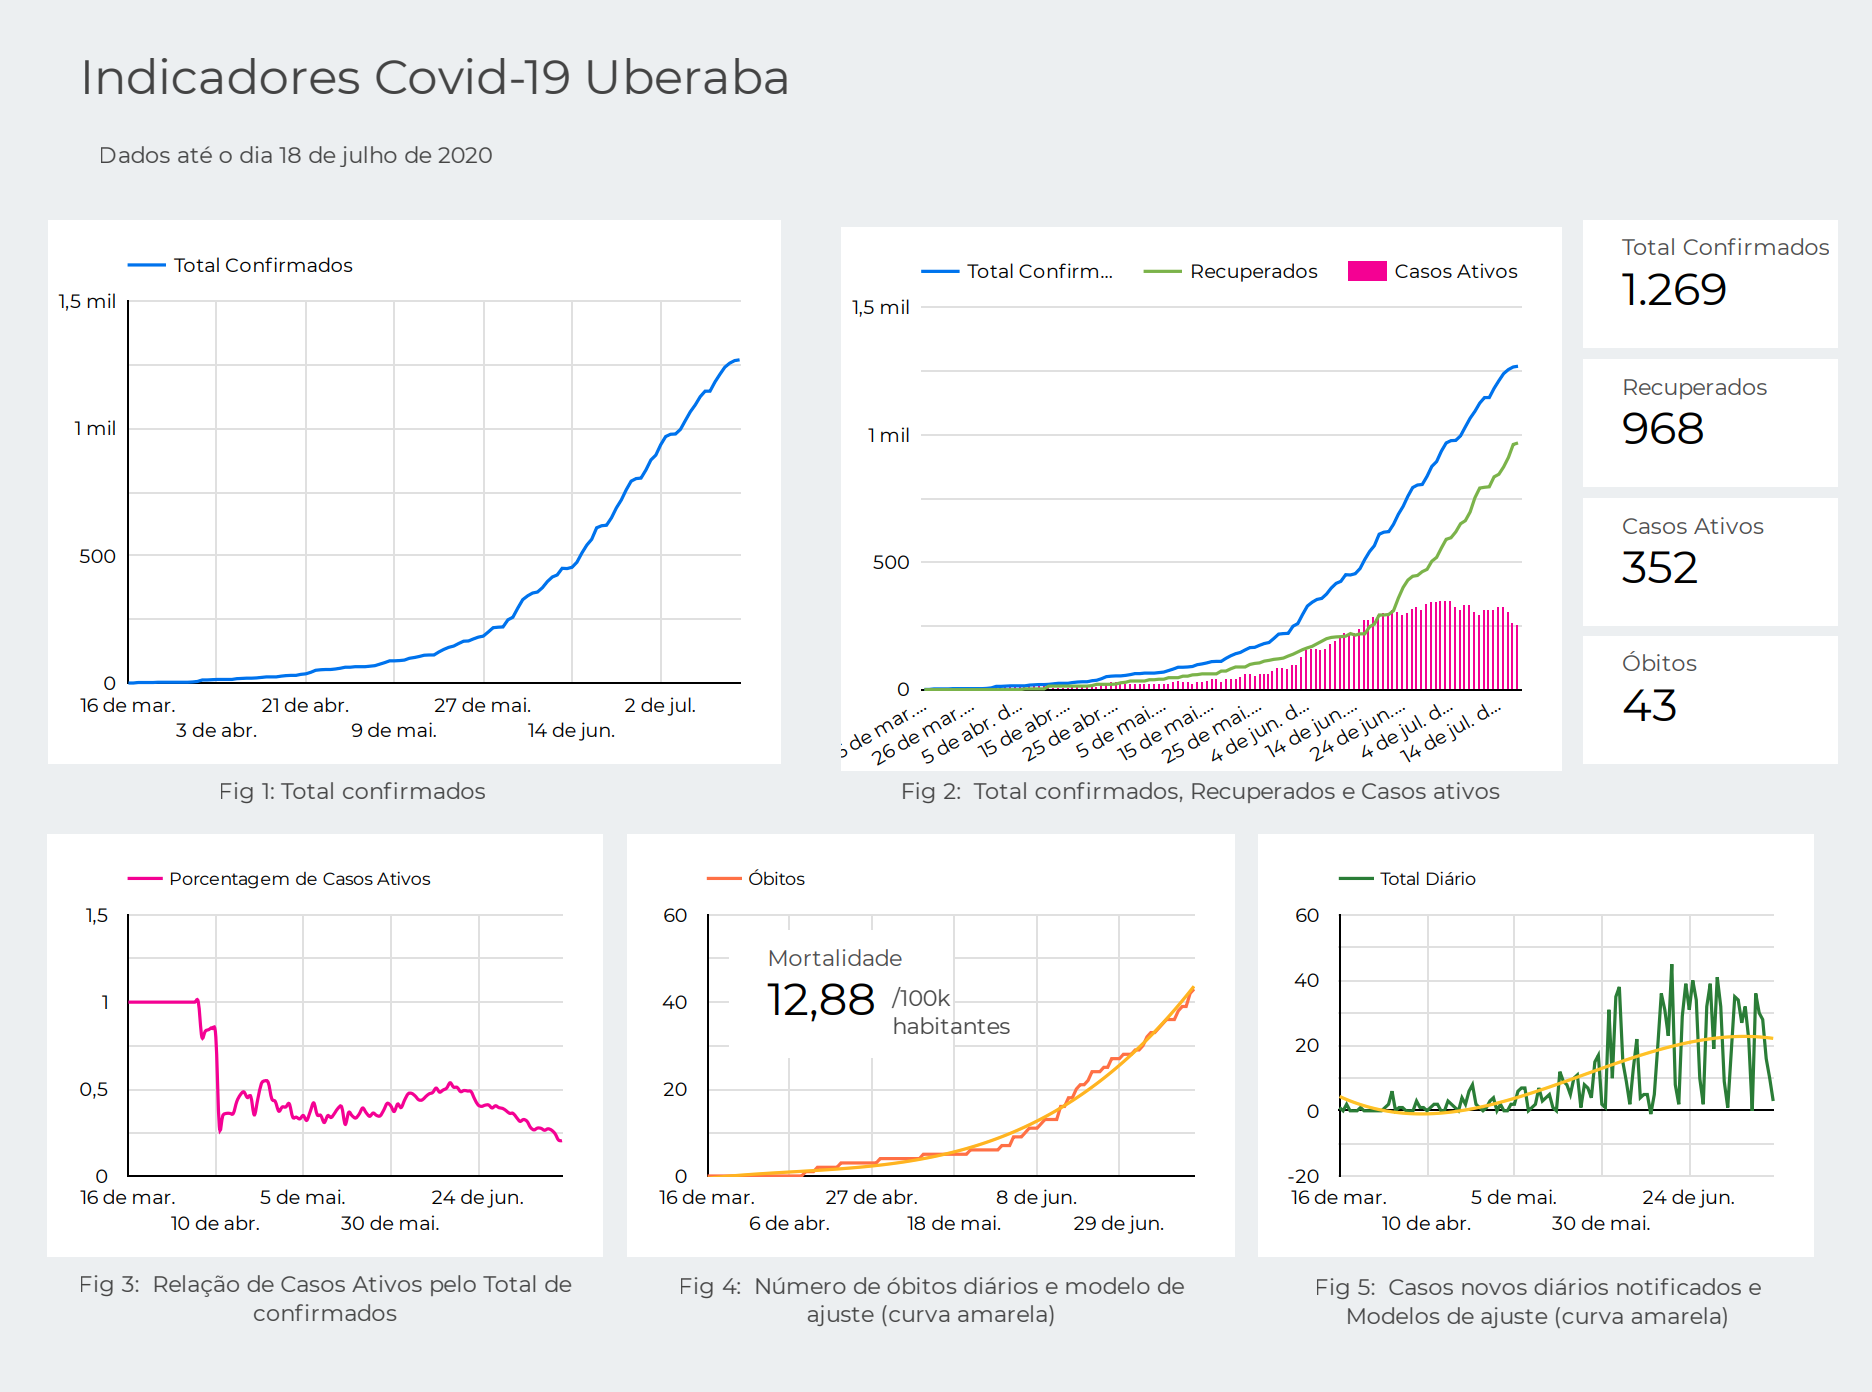
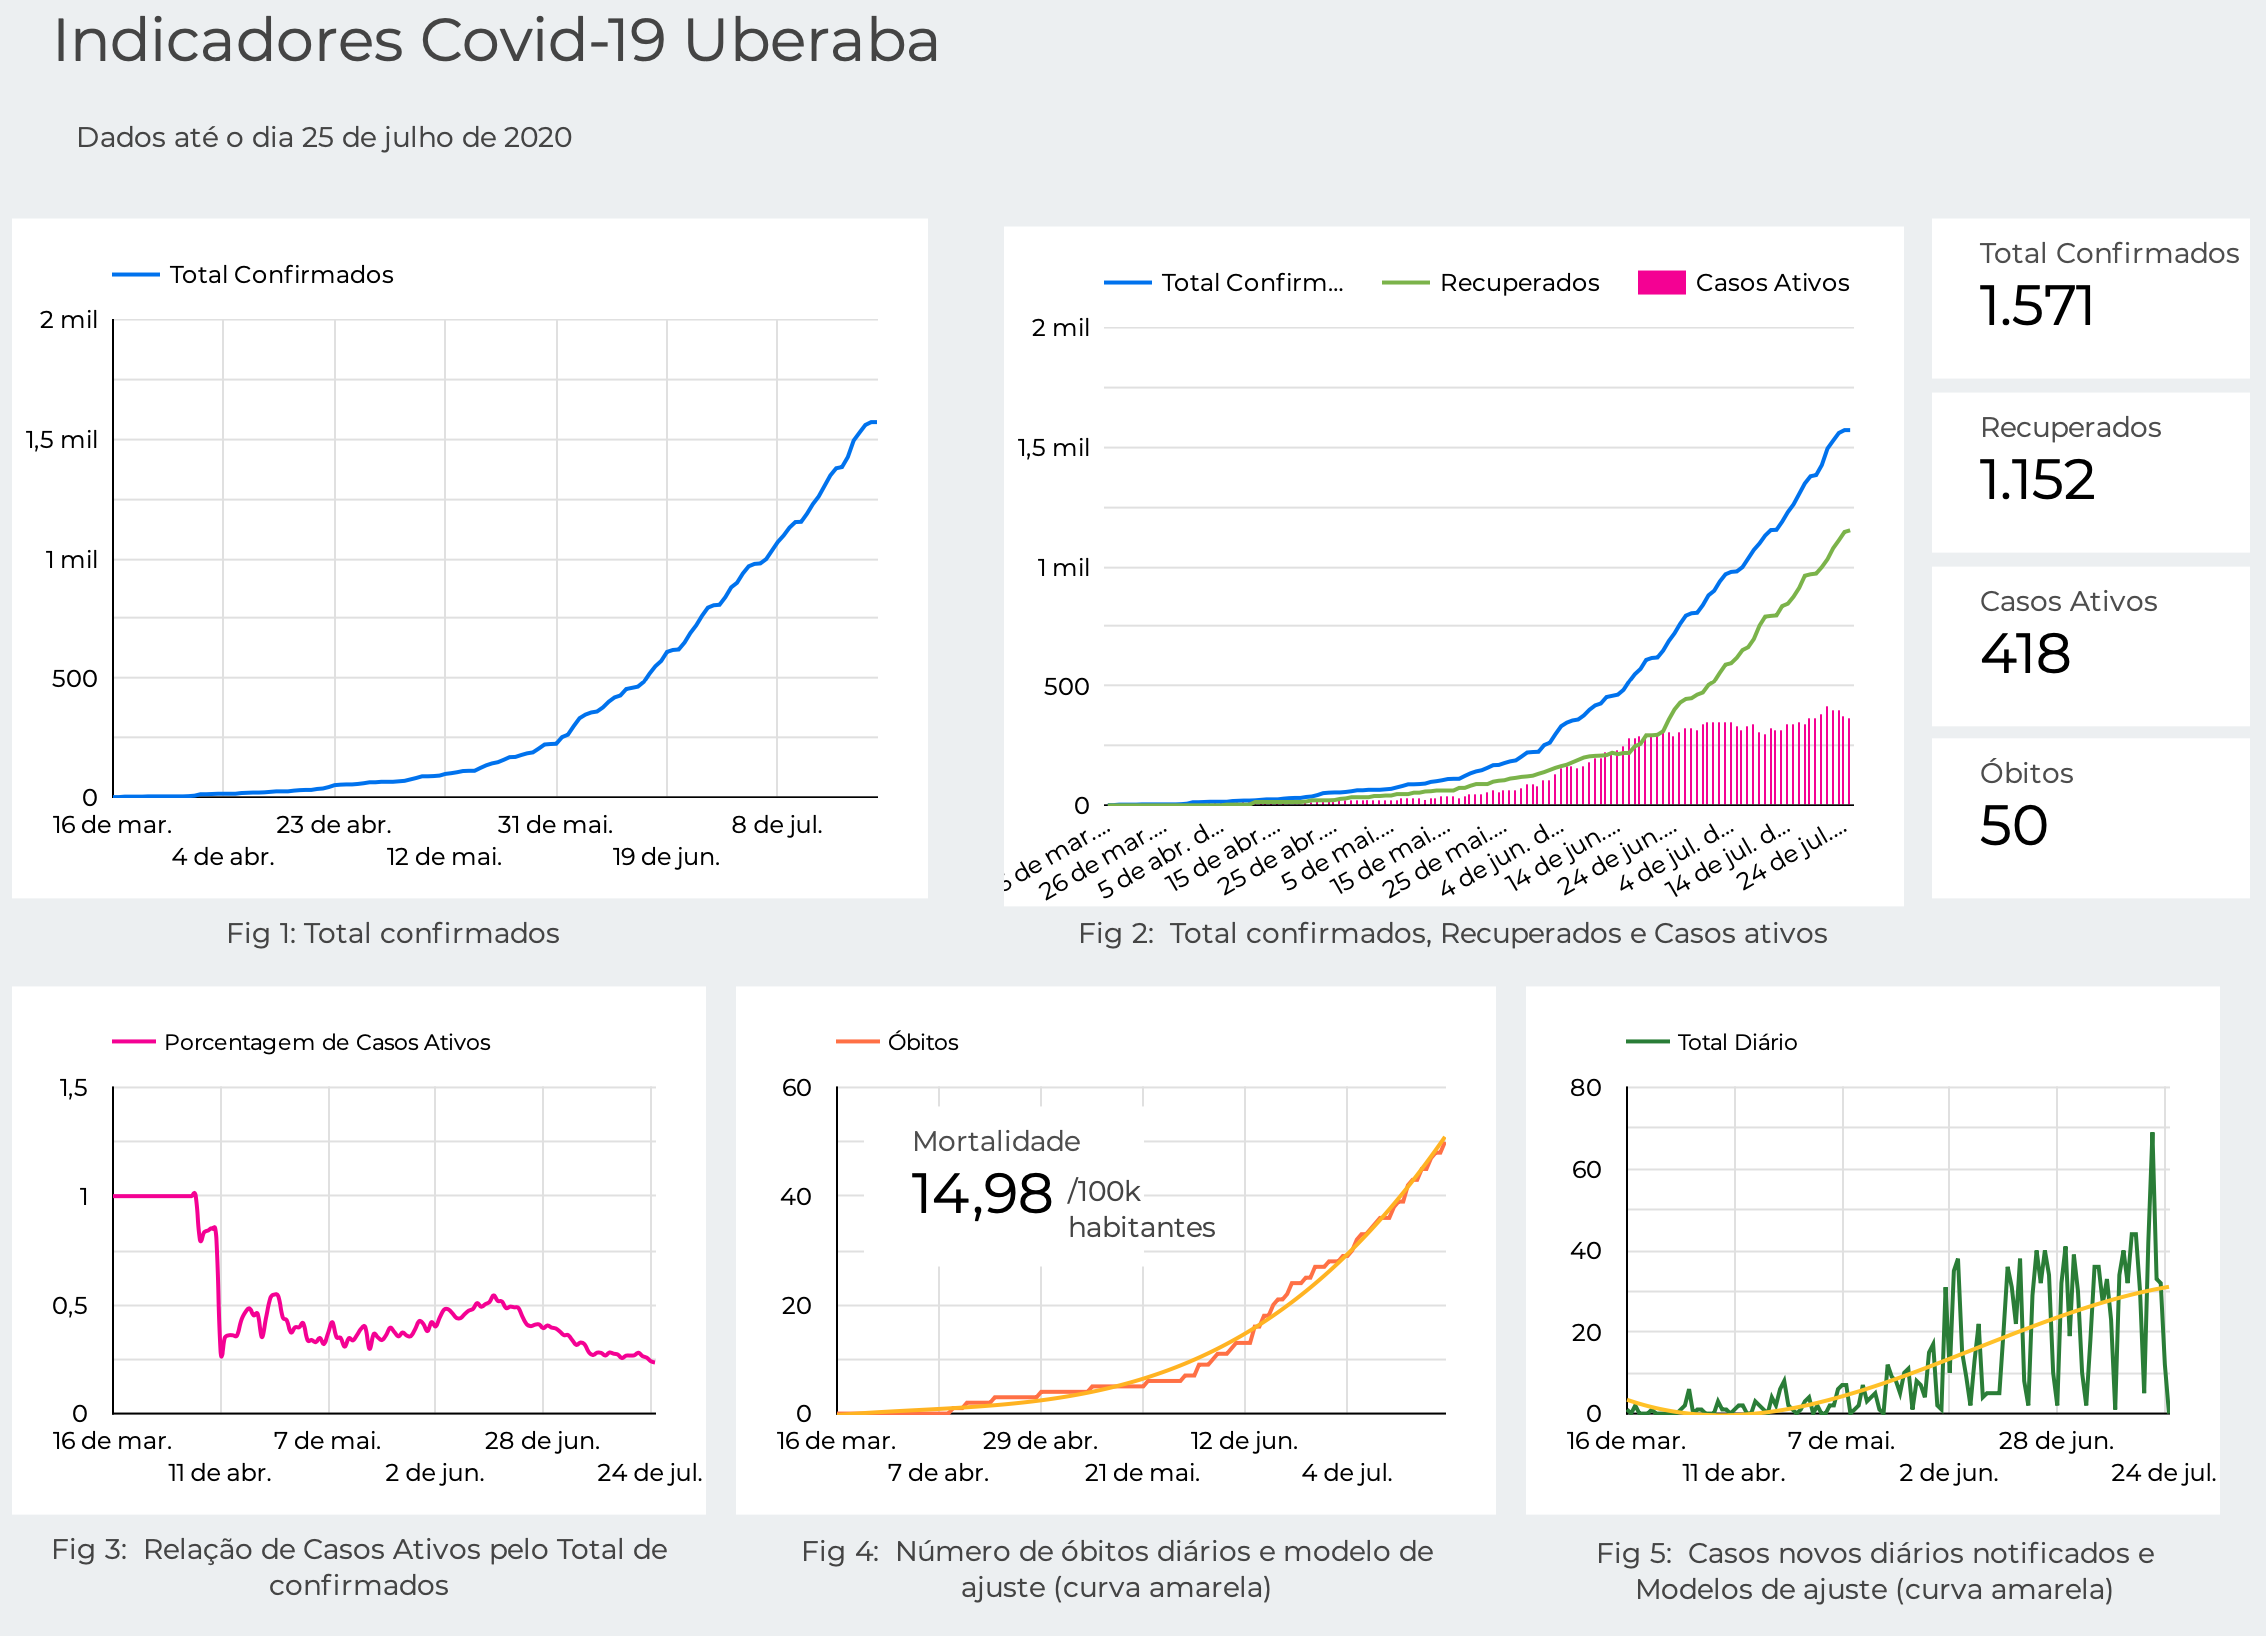
atualziacao dos dados

diff --git a/index.html b/index.html
@@ -133,7 +133,7 @@
               <!-- CARD.TITLE.TEXT -->
               <h2 class="display">Casos de Uberaba</h2>
             <!--/a-->
-            <p class="card-text">Dados e projeções para o município de Uberaba, informações até o dia 11 de julho de 2020. Informações coletadas com a própria Secretaria Municipal de Saúde de Uberaba.</p>
+            <p class="card-text">Dados e projeções para o município de Uberaba, informações até o dia 25 de julho de 2020. Informações coletadas com a própria Secretaria Municipal de Saúde de Uberaba.</p>
             <!-- CARD.TITLE.DESCRIPTION -->
           </div>
         </div>
@@ -145,8 +145,8 @@
 
         <p class="text-justify mt-3">
             <ul>
-            <li>No dia de hoje (18/07/2020), acumulamos 1269 casos notificados.</li>
-            <li>Projeção para dia 23 de Julho é de 1350 podendo chegar até 1534 casos notificados, como indicado pela faixa cinza.</li>
+            <li>No dia de hoje (25/07/2020), acumulamos 1571 casos notificados.</li>
+            <li>Projeção para dia 30 de Julho é de 1689 podendo chegar até 1894 casos notificados, como indicado pela faixa cinza.</li>
             <li>Pontos pretos: número de casos confirmados a cada dia.</li>
             <li>Pontos laranjas: a previsão para os próximos 5 dias.</li>
             </ul>
@@ -174,7 +174,7 @@
         </div>
 
         <p class="text-justify mt-3">
-        Todos os dados foram obtidos da própria Secretária Municipal de Saúde de Uberaba até o dia 18 de julho de 2020.
+        Todos os dados foram obtidos da própria Secretária Municipal de Saúde de Uberaba até o dia 25 de julho de 2020.
         </p>
 
 <!--        <a href="https://datastudio.google.com/reporting/1CX1pHjDrbb7X1gEIeVY1sxQp8PziWgpN/page/g6OUB?s=hWFHXQaeMZY" target="_blank">
@@ -201,7 +201,7 @@
         <p class="text-justify mt-3"> Figura 3: Total acumulado de casos de Covid-19 em Uberaba e média móvel considerando intervalos de sete dias. </p>
 
         <p class="text-justify mt-3">
-        Apesar do dia de hoje, 18 de julho, a cidade ter acumulado 1269 casos confirmados, como mostra a Figura 2, pode-se observar que 76,2% já se encontram recuperados. Considerando a evolução dos casos ativos da doença, ou seja, aqueles que ainda podem transmitir o vírus, percebe-se que a curva está decrescendo. A Figura 4 apresenta a curva de casos ativos ao longo do tempo junto com a média móvel considerando intervalos de sete dias.
+       A Figura 4 apresenta a curva de casos ativos ao longo do tempo junto com a média móvel considerando intervalos de sete dias. O movimento de queda  durou até semana passada, agora o gráfico de casos ativos voltou a subir.
         </p>
 
         <a href="https://datastudio.google.com/reporting/1eNQdQv-rpu3yne8bvqD71-j8gS44fYts/page/sLUUB?s=sfL5MYwUyi4" target="_blank">
@@ -218,27 +218,27 @@
         </p>
 
         <p class="text-justify mt-3">
-        Nessa comparação com a média de 14 dias atrás, entende-se que variações de até 15% pata mais ou para menos caracterizam estabilidade da doença nesse período. No dia de hoje, 18 de julho, essa comparação em Uberaba é de 33%. Ainda não podemos afirmar uma estabilidade no controle da doença, mas quando se olha para a comparação dos últimos 10 dias, claramente se vê uma diminuição, conforme Figura 5.
+    O valor ideal para essa variação é de 15%, para mais ou para menos. Na cidade de Uberaba entramos em um movimento de queda no ínicio de julho, porém nos últimos 12 dias estamos em uma estabilidade de 37% e 39%, esse é o chamado platô.
         </p>
 
         <a href="https://datastudio.google.com/reporting/1eNQdQv-rpu3yne8bvqD71-j8gS44fYts/page/sLUUB?s=sfL5MYwUyi4" target="_blank">
           <img src="./web/municipios/MG/Uberaba/variacao.png" class="img-fluid" style="max-height:600px;" alt="Gŕafico mostrando os indicadores da cidade de Uberaba.">
         </a>
 
-        <p class="text-justify mt-3"> Figura 5: Variação da média móvel dos últimos 10 dias </p>
+        <p class="text-justify mt-3"> Figura 5: Variação da média móvel </p>
 
         <!-- Número reprodutivo -->
-        <div class="media-body">
+<!--        <div class="media-body">
             <h3 class="card-title">Quantas pessoas um infectado contamina na cidade de Uberaba?</h3>
         </div>
 
         <p class="text-justify mt-3">
             Uma pessoa infectada está contaminando 1.18 pessoas. (Semana passada esse valor era de 1.27)
-        </p>
+        </p>-->
 
-        <!-- CARD.TEXT -->
-        <p class="text-justify mt-3">
-          O número Reprodutivo efetivo (Re) é a média de pessoas contaminadas por um infectado. Valores maiores que 1 indicam que o número de novos casos está aumentando. Valores próximos de um indicam um número constante de casos a cada dia. Apenas valores de Re abaixo de um por muitos dias indicam tendência de redução no número de casos.
+        <!--CARD.TEXT -->
+<!--        <p class="text-justify mt-3">
+          O número Reprodutivo efetivo (Re) é a média de pessoas contaminadas por um infectado. Valores maiores que 1 indicam que o número de novos casos está aumentando. Valores próximos de um indicam um número constante de casos a cada dia. Apenas valores de Re abaixo de um por muitos dias indicam tendência de redução no número de casos
         </p>
         <img src="./web/municipios/MG/Uberaba/contagio.png" class="img-fluid" style="max-height:600px;" alt="Gŕafico mostrando o número de casos acumulados na cidade de Uberaba.">
         <p class="text-center mt-3">
@@ -256,8 +256,7 @@
         <img src="./web/municipios/MG/Uberaba/isolamento1.png" class="img-fluid" style="max-height:600px;" alt="Gŕafico mostrando o número de casos acumulados na cidade de Uberaba.">
         <p class="text-center mt-3">
             Figura 4: Taxa de Isolamento de Uberaba. (Fonte: www.farolcovid.coronacidades.org) - Última Atualização 11/07/2020
-        </p>
-
+        </p> -->
         <!--Novo gráfico -->
         <div class="media-body">
             <h3 class="card-title">Comparativo de dados de cidades da região </h3>
@@ -266,7 +265,7 @@
         <p class="text-justify mt-3">
           Estamos coletando dados sobre a covid-19 de cidades da região para assim podermos analisar estatisticamente como estamos reagindo a doença. Além disso, calculamos a taxa de letalidade e de mortalidade para cada uma delas para uma interpretação geral de como a doença está se comportando em cada cidade.
 
-          A letalidade é uma taxa que compara o número de óbitos com a quantidade de pessoas vulneraveís a uma causa específica.
+          A letalidade é uma taxa que compara o número de óbitos com a quantidade de pessoas infectadas pela doneça.
 
           A mortalidade é um índice obtido por uma relação dos óbitos por uma causa específica em um determinado período de tempo para cada 100.000 habitantes da área analisada.
         </p>
